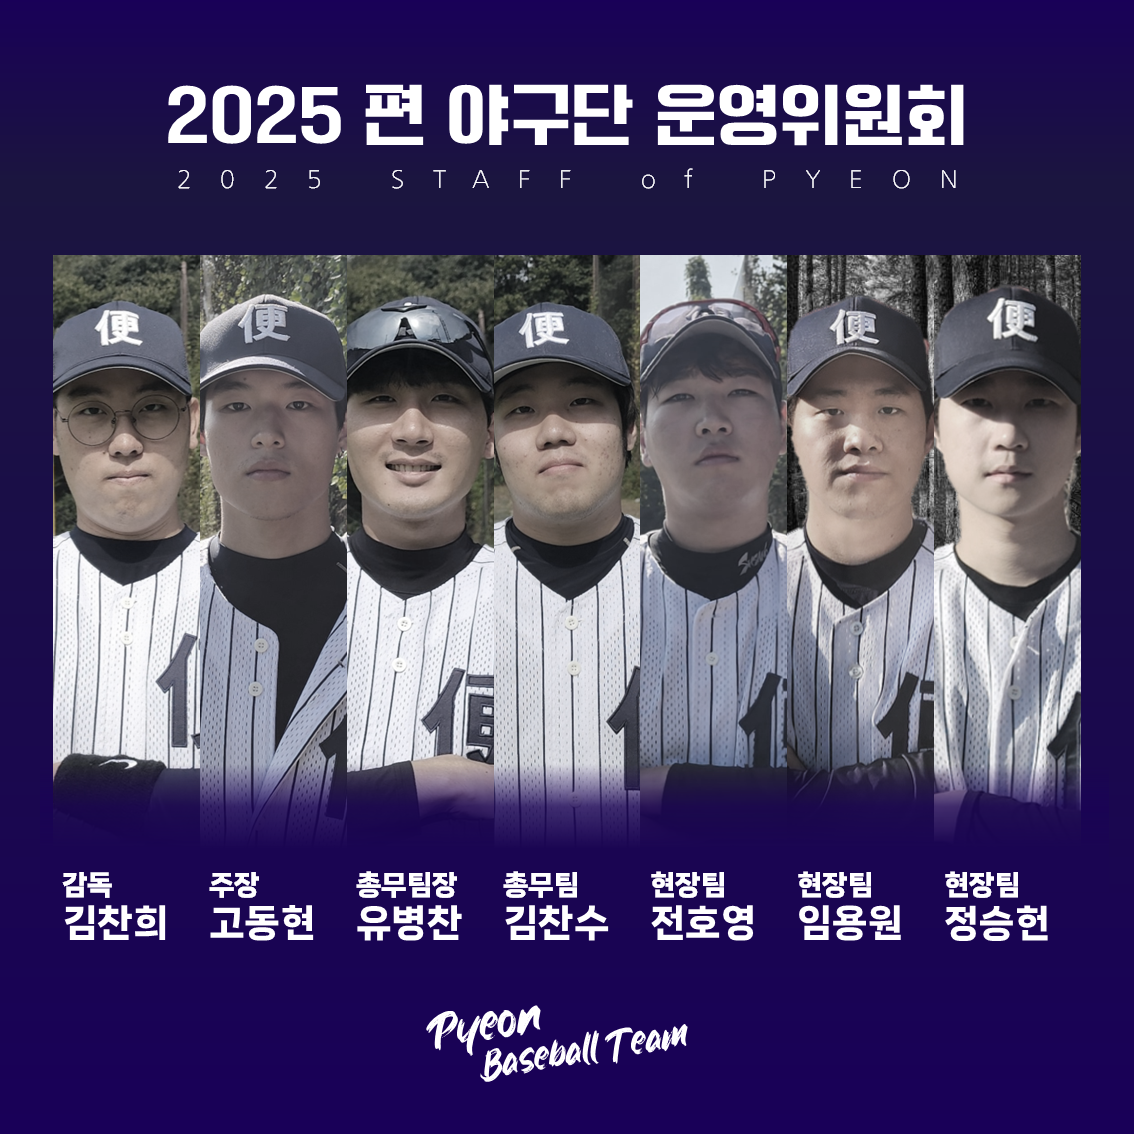
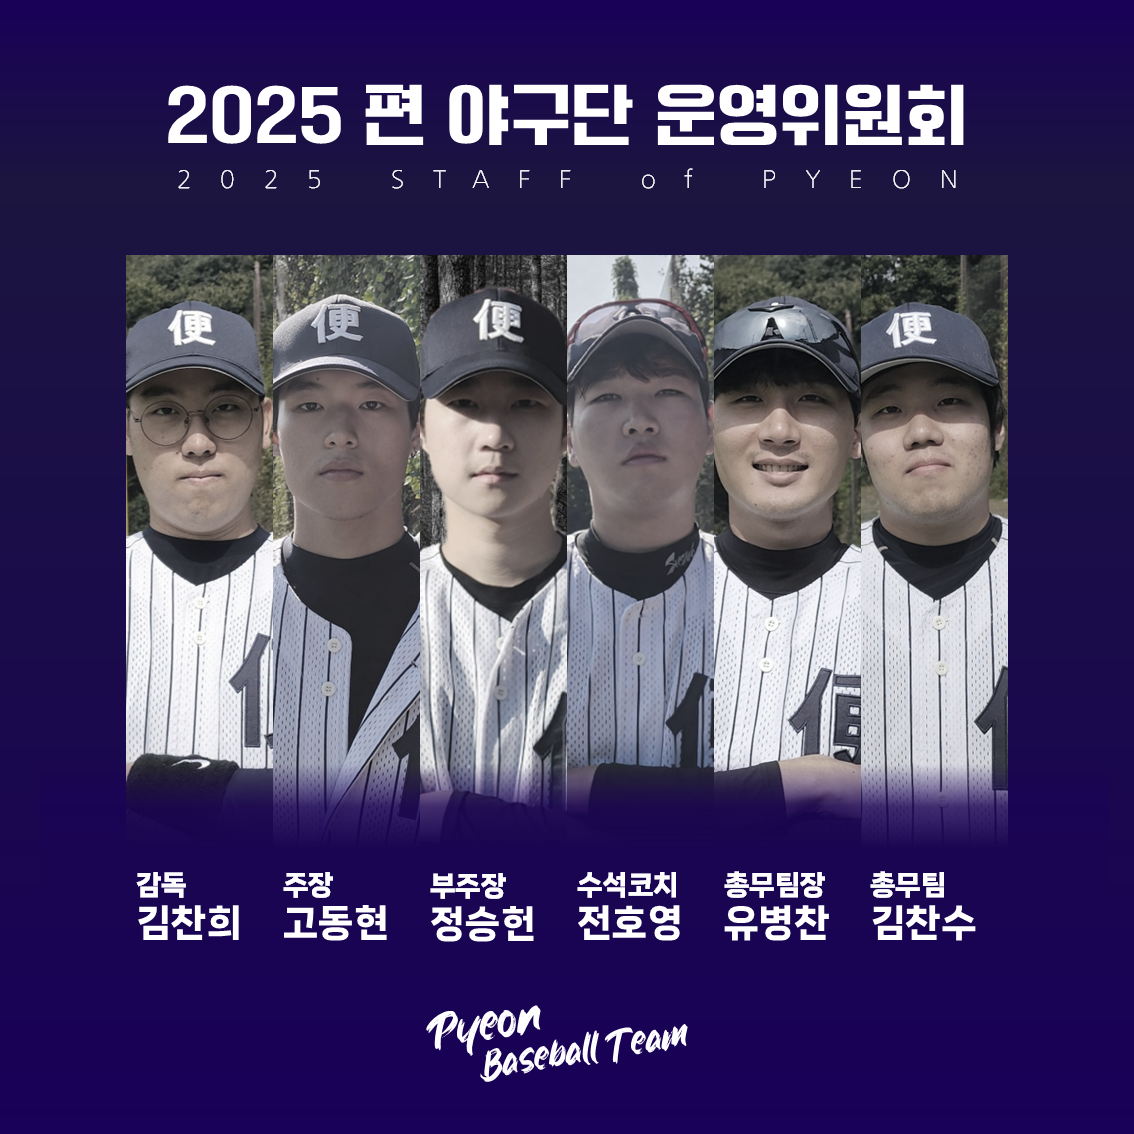
20250429 update

diff --git a/docs/team_introducing/team_introducing_members.md b/docs/team_introducing/team_introducing_members.md
@@ -29,6 +29,7 @@
 <strong><a href="http://www.gameone.kr/locker/?group_code=27F5NSND7ISG0000002MW7Y">No.47 박영준 (2001-06-01) 우투우타 외야수</a></strong><br>
 <strong><a href="http://www.gameone.kr/locker/?group_code=MHP0FGK27941XD5BWSAY8CZOVERNLITJ"style="color:#999999;">No.48 이주혁 (1996-04-26) 우투우타 외야수</a></strong><br>
 <strong><a href="http://www.gameone.kr/locker/?group_code=22TBE55SDKSG0000007LPCX">No.49 고동현 (2001-11-06) 우투우타 내야수</a></strong><br>
+<strong><a href="http://www.gameone.kr/locker/?group_code=22TBE55SDKSG0000007LPCX">No.52 김동현 (2002-12-05) 우투우타 내야수</a></strong><br>
 <strong><a href="http://www.gameone.kr/locker/?group_code=24H6OV5A7JD0000000WFXZM">No.77 이도원 (2004-11-20) 우투우타 외야수</a></strong><br>
 <strong><a href="http://www.gameone.kr/locker/?group_code=2822GT64MOCG0000005YS2R">No.87 박상민 (1999-08-07) 우투우타 외야수</a></strong><br>
 <strong><a href="http://www.gameone.kr/locker/?group_code=2FS59F7ILN80000000TNW0C">No.91 이태훈 (2003-02-18) 우투우타 투수</a></strong><br>

diff --git a/docs/team_introducing/team_introducing_executives.md b/docs/team_introducing/team_introducing_executives.md
@@ -1,7 +1,8 @@
 감독 : 김찬희<br>
 주장 : 고동현<br>
 총무팀장 : 유병찬<br>
-현장팀 : 임용원, 전호영, 정승헌<br>
+수석코치 : 전호영<br>
+부주장 : 정승헌<br>
 총무팀 : 김찬수<br>
 
 <img src="/team_introducing/2025pyeon_executives.png" alt="편 야구단 임원진" width: 500px"; max-width: 90%; style="display:block; margin:auto;">
